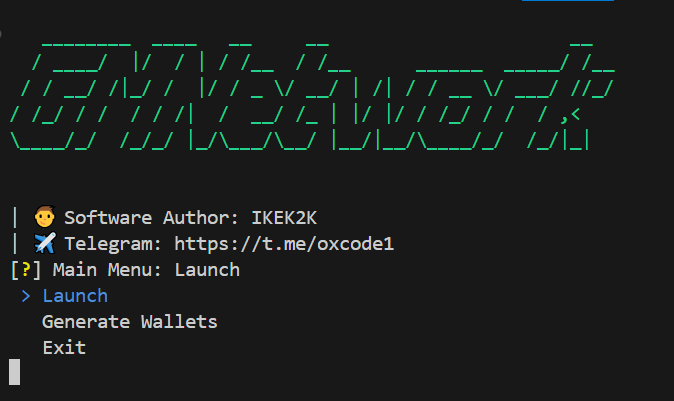
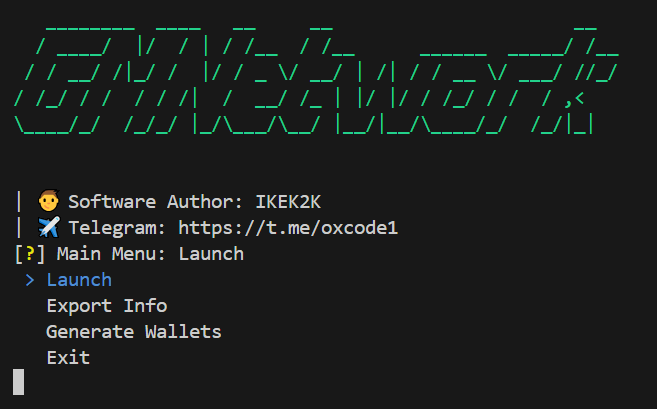
Fix

diff --git a/README.md b/README.md
@@ -9,22 +9,29 @@
 | Функционал                                                     | Поддерживается  |
 |----------------------------------------------------------------|:---------------:|
 | Многопоточность                                                |        ✅       |
+| Локальная база данных                                          |        ✅       |
 | Поддержка прокси любого формата                                |        ✅       |
 | Регистрация аккаунта по реферальному коду                      |        ✅       |
 | Daily CHECK-IN                                                 |        ✅       |
-| Выполнение квестов - LAUNCHPAD GOALS                           |        ✅       |
+| Выполнение квестов*                                            |        ✅       |
+| Сбор информации об аккаунте                                    |        ✅       |
+| Экспорт информации об аккаунтах в txt, excel по ключам         |        ✅       |
 | Генерация кошельков EVM                                        |        ✅       |
 
-## [⚙Настройки](https://github.com/NikeAK/SuperSight/blob/main/data/config.py)
-| Настройка             | Описание                                                        |
-|-----------------------|-----------------------------------------------------------------|
-| **REFERRAL_CODE**     | Реферальный код                                                 |
-| **USE_PROXY**         | Использовать прокси? - True/False                               |
-| **LOGGER_PROXY**      | Вывод информацию о статусе прокси - True/False                  |
-| **RATELIMIT_SLEEP**   | Время сна, после превышения лимита запросов - [min, max]        |
+## [⚙Настройки](https://github.com/NikeAK/GMNetwork/blob/main/data/config.py)
+| Настройка                  | Описание                                                        |
+|----------------------------|-----------------------------------------------------------------|
+| **REFERRAL_CODE**          | Реферальный код                                                 |
+| **USE_PROXY**              | Использовать прокси? - True/False                               |
+| **LOGGER_PROXY**           | Вывод информацию о статусе прокси - True/False                  |
+| **REQUESTSERROR_ATTEMPTS** | Максимальное число попыток неудачных запросов                   |
+| **RATELIMIT_SLEEP**        | Время сна, после превышения лимита запросов - [min, max]        |
+| **PROXY_CHEKER_TIMEOUT**   | Тайм-аут проверки прокси                                        |
+| **EXPORT_SEPARATOR**       | Символ разделения данных для экспорта в TXT                     |
+| **EXPORT_DATA**            | Используемые данные для экспорта, записываются через запятую    |
 
 $\color{#58A6FF}\textsf{\Large\&#x24D8;\kern{0.2cm}\normalsize Note}$
-**Перед началом работы, заполните $\color{yellow}{\textsf{private-keys.txt}}$ и $\color{yellow}{\textsf{proxy.txt}}$ 1к1!**
+**Перед началом работы, заполните $\color{yellow}{\textsf{private-keys.txt}}$ и $\color{yellow}{\textsf{proxy.txt}}$**
 
 ## ⚡Быстрый запуск
 1. Запустите $\color{orange}{\textsf{Setup.bat}}$. Этот скрипт автоматически создаст виртуальное окружение, активирует его, установит все необходимые зависимости из файла requirements.txt и удалит не нужные файлы.
